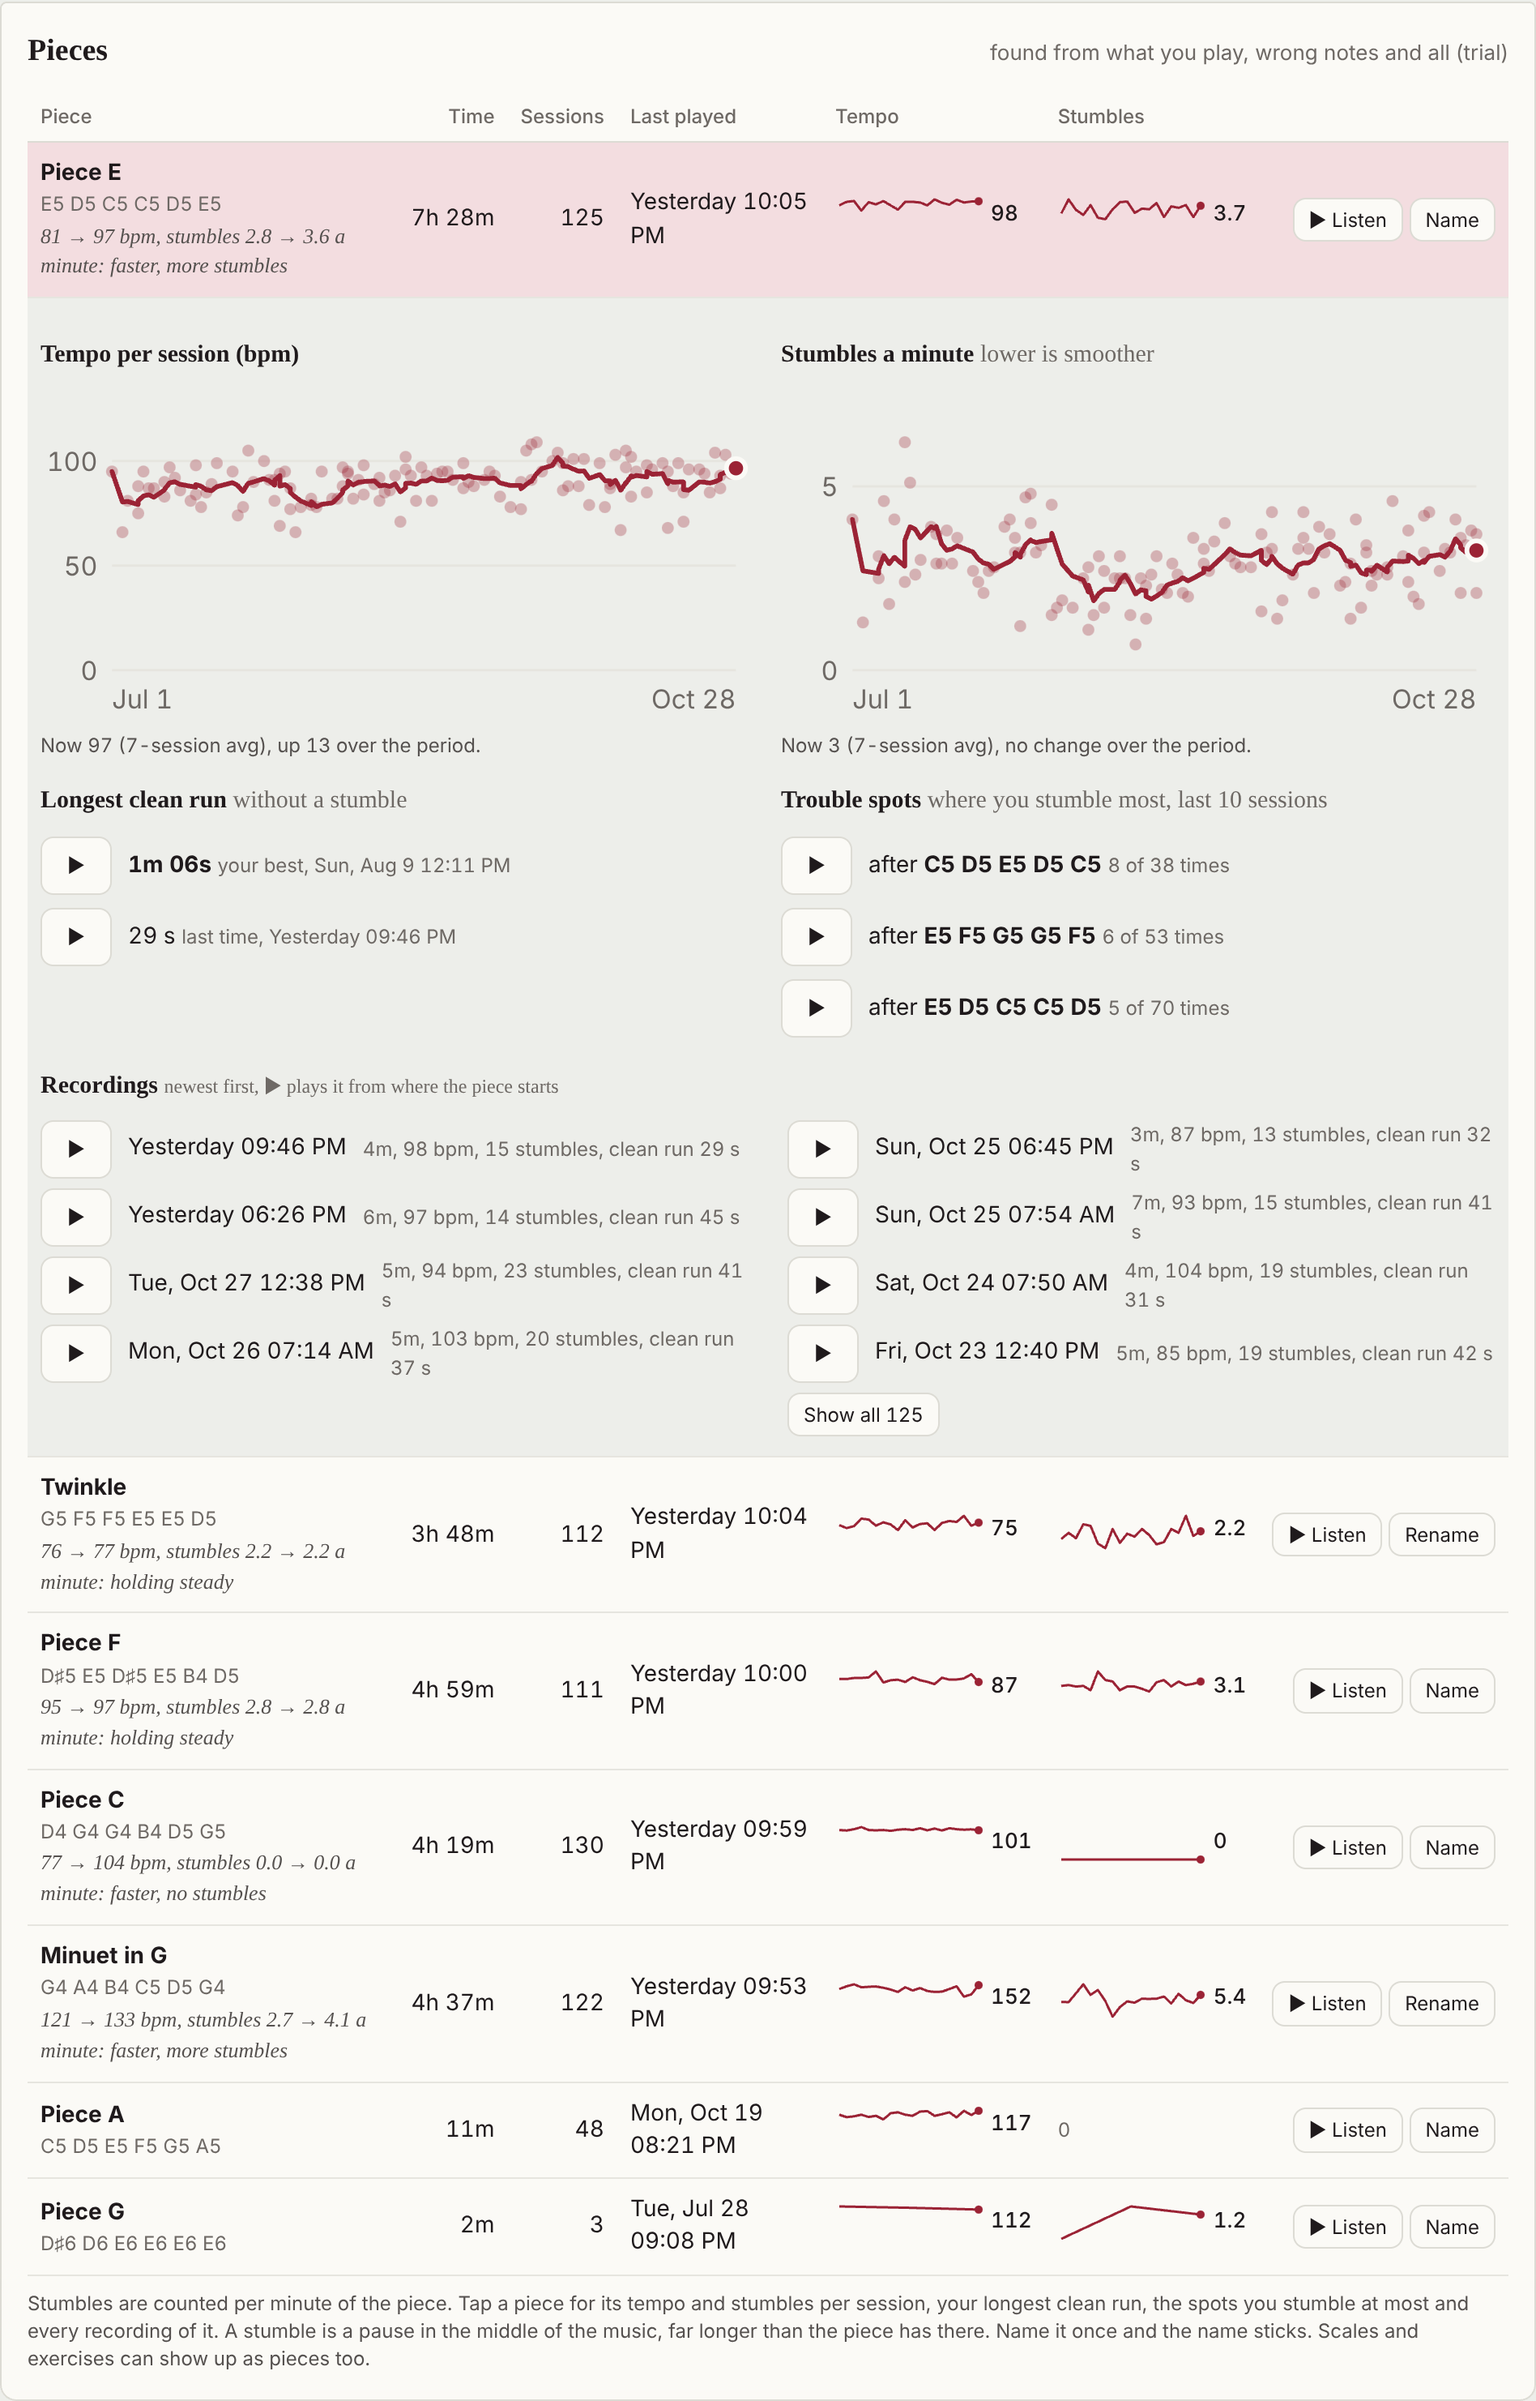
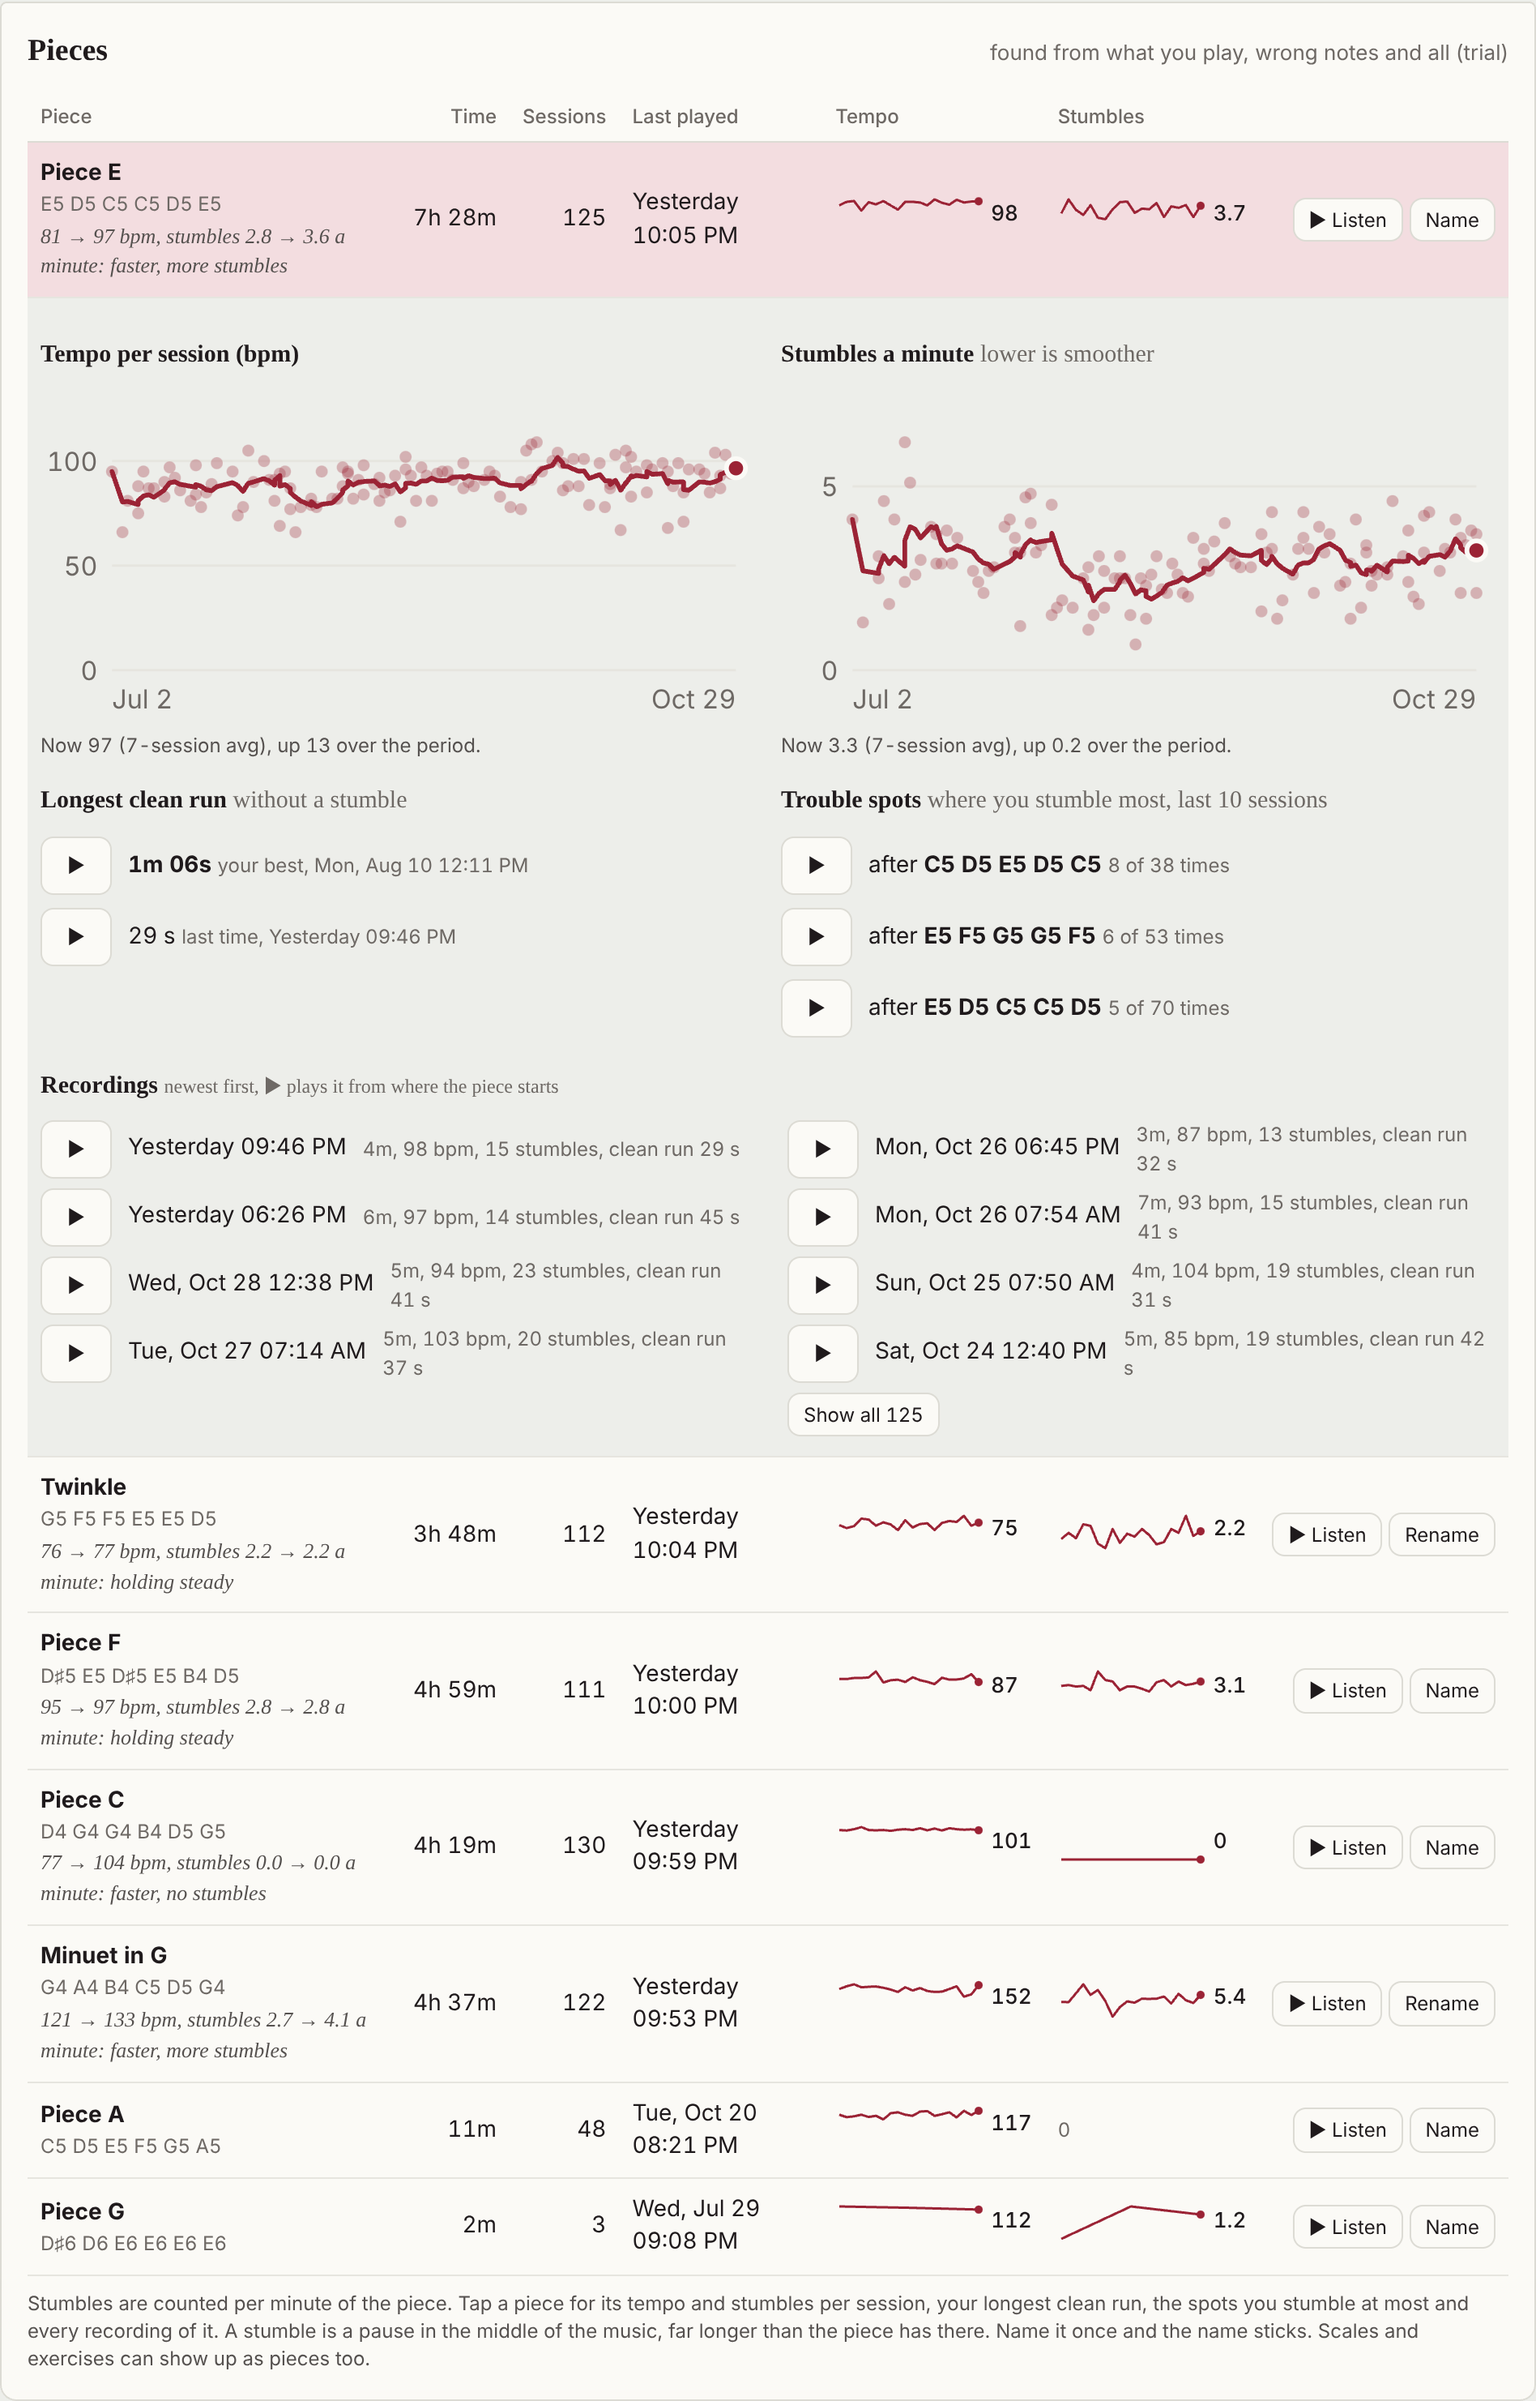
Review fixes: a seek drag keeps its scale, decimals follow the averages
- Dragging the zoomed seek bar out of the loop no longer jumps to the whole
  session's scale mid-drag; the thumb is redrawn when let go.
- The time label stays "t / length" while looping, so the bar doesn't shift.
- Trend decimals come from the 7-point average shown, and the tooltip's raw
  value uses the same precision.
- Screenshots regenerated (pieces, replay).

Claude-Session: https://claude.ai/code/session_01XCCUDBuyTevP1K1S3AtivC

diff --git a/pianotrack/static/replay.js b/pianotrack/static/replay.js
@@ -152,6 +152,7 @@ class Replay {
     this.timer = null;
     this.raf = null;
     this.loop = null;   // {a, b} in player time while looping
+    this.drag = null;   // the seek bar's [from, to] while it is being dragged
     this.mark = null;   // where the last jump() landed; Loop centres on it
     this.starting = false; this.startToken = 0;  // a play() waiting for the piano
     this.build();
@@ -182,9 +183,14 @@ class Replay {
     this.$(".rp-play").onclick = () => this.toggle();
     this.root.querySelectorAll(".rp-step").forEach((b) => b.onclick = () => { this.mark = null; this.seek(this.pos + +b.dataset.d); });
     this.$(".rp-loop").onclick = () => this.toggleLoop();
-    this.$(".rp-seek").oninput = (e) => {
+    // A drag keeps the scale it started on, even when it leaves the loop and the
+    // bar goes back to the whole session; the thumb is redrawn once it is let go.
+    const bar = this.$(".rp-seek");
+    bar.onpointerdown = () => { this.drag = this.span(); };
+    bar.onpointerup = bar.onpointercancel = bar.onchange = () => { if (this.drag) { this.drag = null; this.draw(); } };
+    bar.oninput = (e) => {
       if (!this.prep) return;
-      const [lo, hi] = this.span();
+      const [lo, hi] = this.drag || this.span();
       this.mark = null; this.seek(lo + e.target.value / 1000 * (hi - lo));
     };
     this.$(".rp-speed").onchange = (e) => { const was = this.playing; this.pause(); this.speed = +e.target.value; if (was) this.play(); };
@@ -281,7 +287,7 @@ class Replay {
   // you are), until Loop is tapped again or you seek outside it.
   toggleLoop() {
     if (!this.prep) return;
-    if (this.loop) { this.setLoop(null); return; }
+    if (this.loop) { this.setLoop(null); this.draw(); return; }
     piano.unlock();
     // The spot a ▶ jumped to, unless playback has since moved well past it.
     const near = this.mark != null && Math.abs(this.pos - this.mark) <= 2 * LOOP_HALF;
@@ -304,14 +310,12 @@ class Replay {
     const btn = this.$(".rp-loop"), band = this.$(".rp-band");
     btn.setAttribute("aria-pressed", loop ? "true" : "false");
     band.hidden = !loop;
-    this.$(".rp-seekbox").classList.toggle("rp-zoom", !!loop);
     if (loop) {
       const [lo, hi] = this.span(), w = hi - lo || 1;
       // The thumb is 16 px wide, so the track runs from 8 px to width − 8 px.
       band.style.left = `calc(8px + (100% - 16px) * ${(loop.a - lo) / w})`;
       band.style.width = `calc((100% - 16px) * ${(loop.b - loop.a) / w})`;
     }
-    if (this.prep) this.draw();
   }
 
   // Back to A without stopping the clock: notes past B were never scheduled and
@@ -440,11 +444,9 @@ class Replay {
     const soft = n.some((x) => x.soft && x.on <= t && t < x.off);
     this.$(".rp-soft").classList.toggle("on", soft);
     const fmt = (s) => `${Math.floor(s / 60)}:${String(Math.floor(s % 60)).padStart(2, "0")}`;
-    this.$(".rp-time").textContent = this.loop
-      ? `${fmt(t)} · loop ${fmt(this.loop.a)}–${fmt(this.loop.b)}`
-      : `${fmt(t)} / ${fmt(this.prep.duration)}`;
+    this.$(".rp-time").textContent = `${fmt(t)} / ${fmt(this.prep.duration)}`;
     const [lo, hi] = this.span();
-    if (document.activeElement !== this.$(".rp-seek"))
+    if (!this.drag)
       this.$(".rp-seek").value = hi > lo ? Math.round(1000 * (t - lo) / (hi - lo)) : 0;
   }
 }

diff --git a/pianotrack/static/index.html b/pianotrack/static/index.html
@@ -624,8 +624,6 @@ function trendLine(target, rows, key, unit, fixedMax, per = "day") {
   const s = svgRoot(W, H);
   const t0 = new Date(pts[0].date + "T12:00:00").getTime(), t1 = new Date(pts.at(-1).date + "T12:00:00").getTime();
   const vals = pts.map((p) => p[key]);
-  // Small values (stumbles a minute) keep a decimal, so "Now" agrees with the piece's line.
-  const dp = Math.max(...vals) < 10 ? 1 : 0;
   const max = fixedMax ?? Math.max(...vals) * 1.15, min = fixedMax ? 0 : 0;
   const x = (t) => pad.l + (W - pad.l - pad.r) * ((t - t0) / Math.max(t1 - t0, 1));
   const y = (v) => pad.t + (H - pad.t - pad.b) * (1 - (v - min) / (max - min));
@@ -640,6 +638,8 @@ function trendLine(target, rows, key, unit, fixedMax, per = "day") {
   const xy = pts.map((p) => [x(new Date(p.date + "T12:00:00").getTime()), y(p[key])]);
   // 7-point rolling mean as the main line; daily values as faint dots
   const roll = xy.map((_, i) => { const w = vals.slice(Math.max(0, i - 6), i + 1); return w.reduce((a, b) => a + b, 0) / w.length; });
+  // Small values (stumbles a minute) keep a decimal, so "Now" agrees with the piece's line.
+  const dp = Math.max(...roll) < 10 ? 1 : 0;
   xy.forEach(([cx, cy]) => el("circle", { cx, cy, r: 2.5, fill: "var(--accent)", opacity: 0.3 }, s));
   el("path", { d: xy.map(([cx], i) => `${i ? "L" : "M"}${cx.toFixed(1)},${y(roll[i]).toFixed(1)}`).join(""),
     fill: "none", stroke: "var(--accent)", "stroke-width": 2, "stroke-linejoin": "round", "stroke-linecap": "round" }, s);
@@ -652,7 +652,7 @@ function trendLine(target, rows, key, unit, fixedMax, per = "day") {
     const r = s.getBoundingClientRect(), px = (e.clientX - r.left) * (W / r.width);
     let best = 0; xy.forEach(([cx], i) => { if (Math.abs(cx - px) < Math.abs(xy[best][0] - px)) best = i; });
     cross.setAttribute("x1", xy[best][0]); cross.setAttribute("x2", xy[best][0]); cross.setAttribute("opacity", 1);
-    showTip(e, `<b>${fmtD(new Date(pts[best].date + "T12:00:00"))}</b><br>${vals[best]}${unit} that ${per}, 7-${per} avg ${roll[best].toFixed(dp)}${unit}`);
+    showTip(e, `<b>${fmtD(new Date(pts[best].date + "T12:00:00"))}</b><br>${+vals[best].toFixed(dp)}${unit} that ${per}, 7-${per} avg ${roll[best].toFixed(dp)}${unit}`);
   };
   hit.addEventListener("mousemove", onMove);
   hit.addEventListener("touchmove", (e) => onMove(e.touches[0]), { passive: true });

diff --git a/README.md b/README.md
@@ -81,7 +81,7 @@ are honoured, playback speed goes from 0.5× to 2×, and "skip pauses" squeezes 
 silences so you hear only the playing. **−5 / +5** step back and forward, **Loop**
 repeats 4 s either side of where you are (or of the spot a ▶ jumped to, such as a
 trouble spot) until you tap it again or seek outside it. While it loops, the seek bar
-zooms to the loop and 4 s either side, with the loop shaded and its times shown, and
+zooms to the loop and 4 s either side, with the loop shaded, and
 **Space** plays and pauses while a session is open. The piano samples ship with the app, so replay
 works without internet.
 
